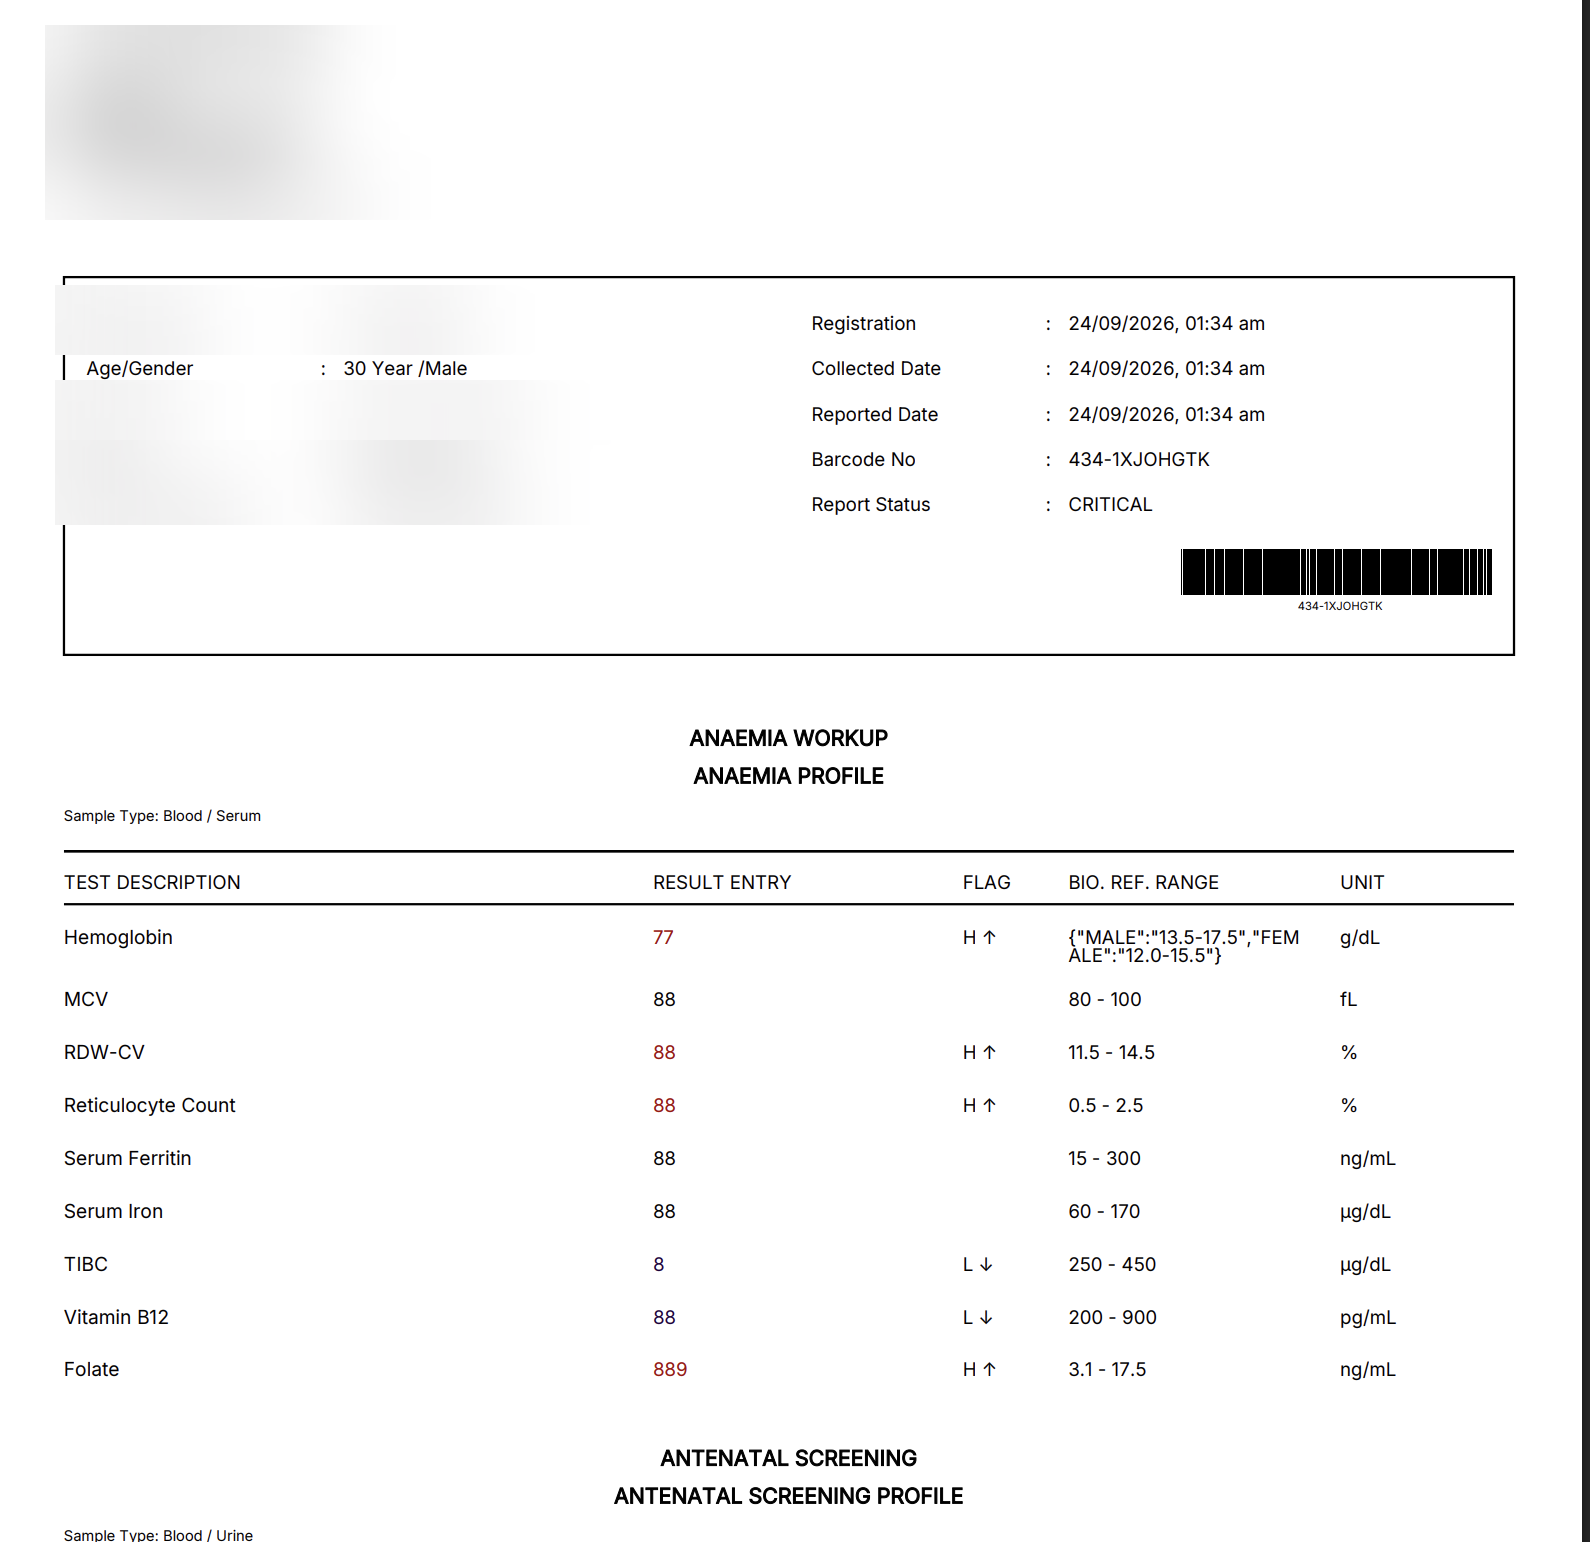
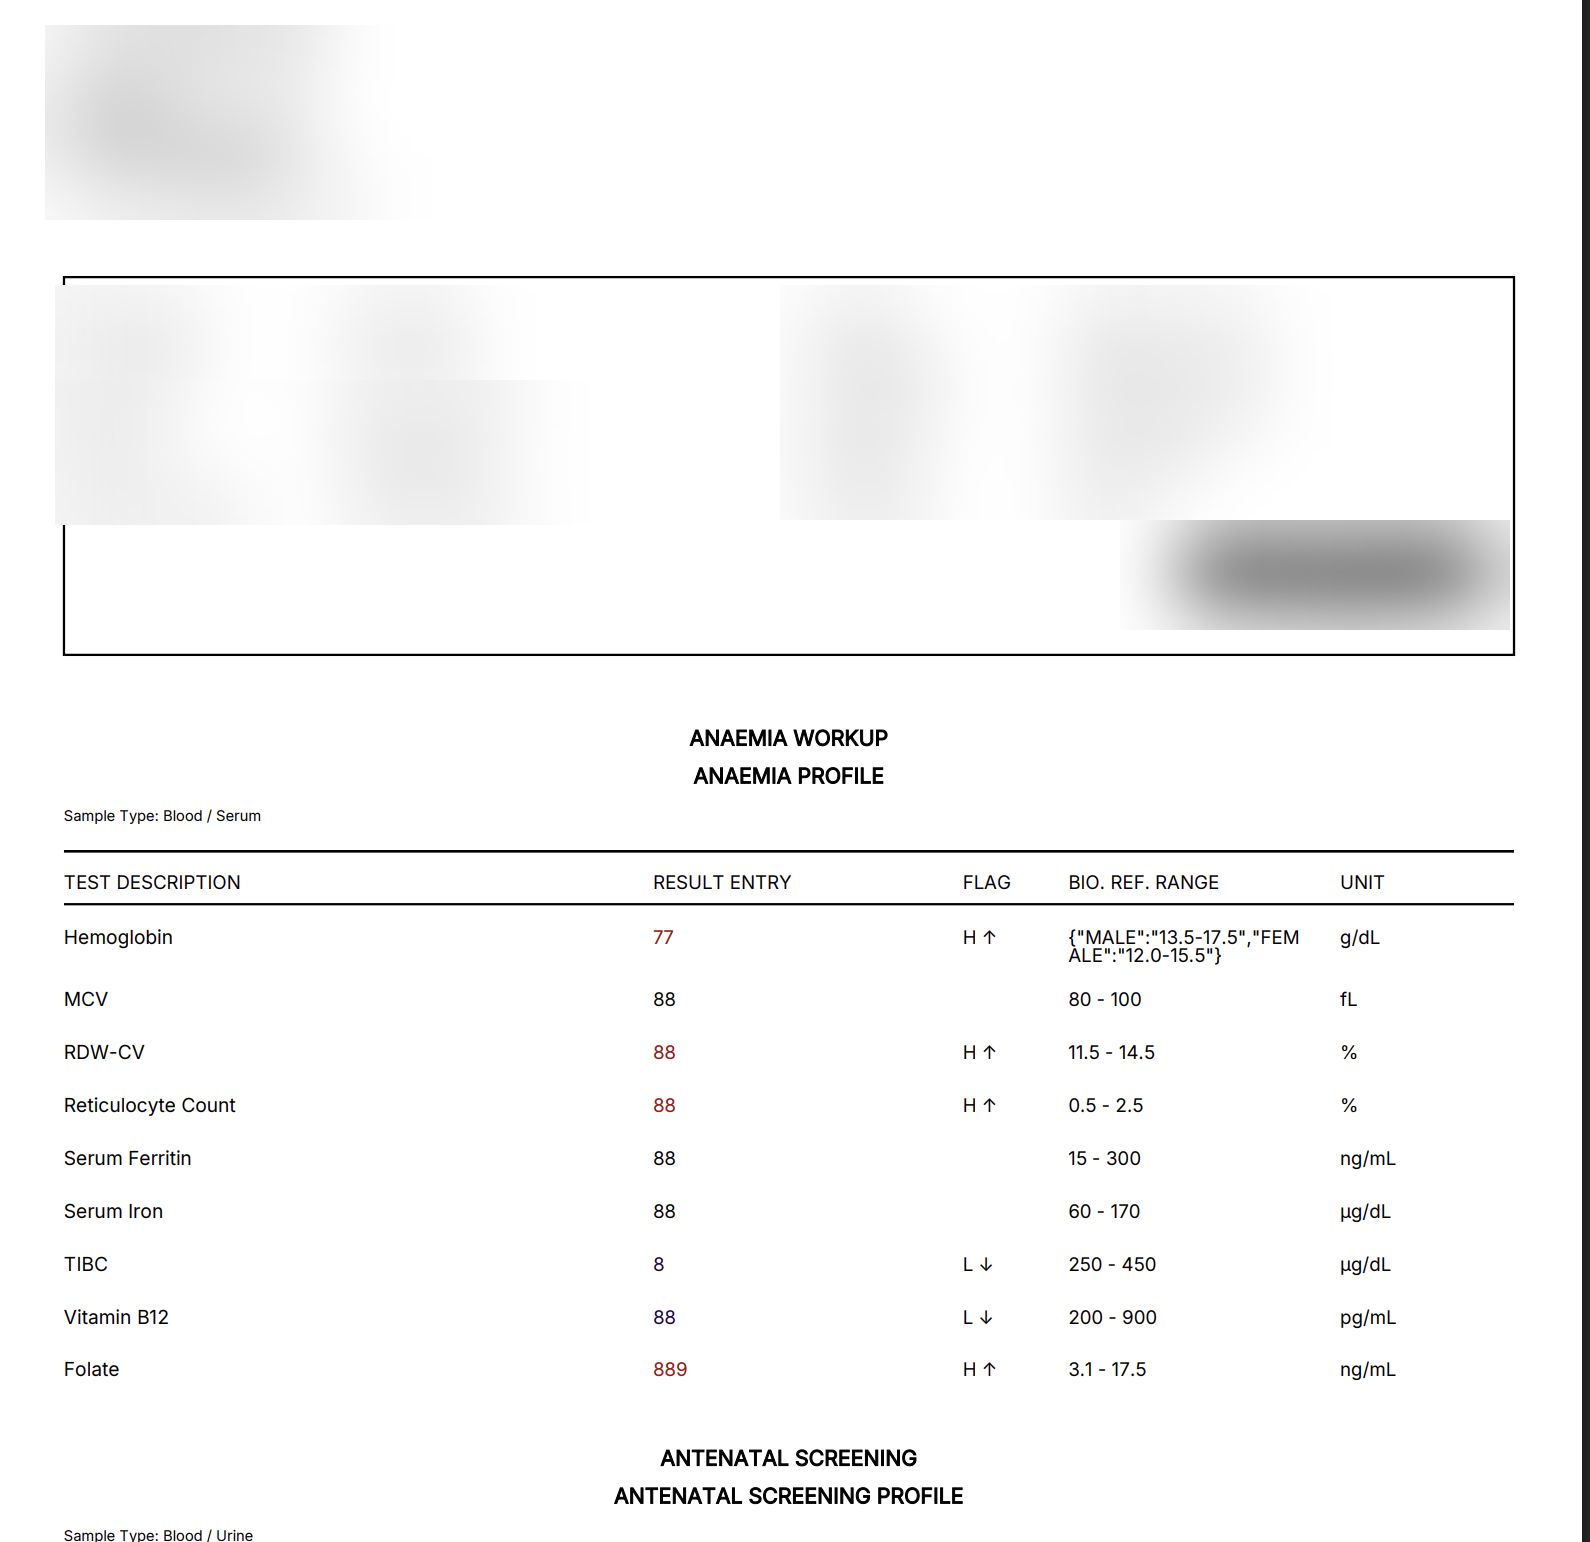
fix: improve lab software SEO and public proof

diff --git a/lab-frontend/src/components/Landing.tsx b/lab-frontend/src/components/Landing.tsx
@@ -23,9 +23,9 @@ export default function Landing({ onLoginClick, onSignupClick }: Props) {
     <div className="landing-page landing-v2">
       <section className="landing-v2-hero">
         <div className="landing-v2-copy">
-          <div className="landing-v2-badge"><span><Sparkles size={14} /> Laboratory reporting software for diagnostic labs</span></div>
-          <h1>Run your laboratory reporting workflow from <span>patient registration to verified report.</span></h1>
-          <p>PathMLT connects patients, orders, tests, samples, results, verification, report templates, and PDF delivery in one workspace for diagnostic, pathology, hospital, and independent laboratories.</p>
+          <div className="landing-v2-badge"><span><Sparkles size={14} /> Lab software for diagnostic laboratories</span></div>
+          <h1>Lab software for diagnostic laboratories, from <span>patient registration to verified report.</span></h1>
+          <p>PathMLT is lab software for diagnostic, pathology, hospital, and independent laboratories. It connects patients, orders, tests, samples, results, verification, report templates, and PDF delivery in one workspace.</p>
           <div className="landing-v2-actions">
             <button className="landing-v2-primary" onClick={onSignupClick}>Start your 30-day free trial <ArrowRight size={17} /></button>
             <a className="landing-v2-secondary" href="https://wa.me/916388334513?text=Hello%20PathMLT%2C%20I%20want%20to%20book%20a%20demo." target="_blank" rel="noreferrer">Book a live demo</a>
@@ -52,6 +52,8 @@ export default function Landing({ onLoginClick, onSignupClick }: Props) {
 
       <section className="landing-v2-trust"><span>BUILT FOR REAL LABORATORY WORK</span><div><strong>Patients</strong><b>→</b><strong>Orders</strong><b>→</b><strong>Samples</strong><b>→</b><strong>Results</strong><b>→</b><strong>Verification</strong><b>→</b><strong>Reports</strong></div></section>
 
+      <section className="landing-v2-section landing-v2-category" aria-labelledby="lab-software-category-title"><div className="landing-v2-section-head"><div><span className="landing-v2-eyebrow">Choosing lab software</span><h2 id="lab-software-category-title">A focused lab software workspace for reporting operations.</h2></div><p>PathMLT is designed for laboratories that need connected patient, test, result, verification, and report workflows—not a generic task tracker or a standalone document editor.</p></div><div className="landing-v2-feature-grid"><article><span className="feature-icon"><FlaskConical size={20} /></span><h3>Lab software for daily operations</h3><p>Keep patient records, orders, samples, configured tests, result entry, and report status connected as work moves through the laboratory.</p><Link to="/diagnostic-lab-software">Explore diagnostic lab software <ArrowRight size={14} /></Link></article><article><span className="feature-icon"><ShieldCheck size={20} /></span><h3>Reporting with a verification checkpoint</h3><p>Review required values, flags, reference information, and report context before a final report is released.</p><Link to="/result-verification">Explore result verification <ArrowRight size={14} /></Link></article><article><span className="feature-icon"><FileCheck2 size={20} /></span><h3>More than a PDF generator</h3><p>Generate the PDF after the underlying patient, order, test, and result data has been configured and reviewed.</p><Link to="/pdf-reports">Explore PDF lab reports <ArrowRight size={14} /></Link></article></div></section>
+
       <div className="landing-v2-action-rail"><span>See how PathMLT fits your laboratory before you commit.</span><div><a className="landing-v2-demo-btn" href="https://wa.me/916388334513?text=Hello%20PathMLT%2C%20I%20want%20to%20book%20a%20demo." target="_blank" rel="noreferrer">Book a workflow demo <ArrowRight size={14} /></a><button className="landing-v2-login-btn" onClick={onLoginClick}>Login</button><button className="landing-v2-register-btn" onClick={onSignupClick}>Start trial</button></div></div>
 
       <section className="landing-v2-section"><div className="landing-v2-section-head"><div><span className="landing-v2-eyebrow">Built around laboratory work</span><h2>Keep every reporting stage in context.</h2></div><p>Replace disconnected spreadsheets, manual handoffs, and scattered report files with a repeatable process that your team can configure, review, and improve.</p></div><div className="landing-v2-feature-grid">{features.map(({ icon: Icon, title, text }) => <article key={title}><span className="feature-icon"><Icon size={20} /></span><h3>{title}</h3><p>{text}</p><Link to="/solutions">Explore this capability <ArrowRight size={14} /></Link></article>)}</div></section>
@@ -64,7 +66,7 @@ export default function Landing({ onLoginClick, onSignupClick }: Props) {
 
       <section className="landing-v2-showcase"><div><span className="landing-v2-eyebrow">Professional laboratory reporting</span><h2>Generate a clear report from verified laboratory results.</h2><p>Use configured tests, readable parameter tables, laboratory identity, and a finalization step to produce patient-ready reports without rebuilding documents manually.</p><Link to="/pdf-reports">Explore PDF lab reports <ArrowRight size={15} /></Link></div><div className="report-mock"><div className="report-mock-head"><div><span>A</span><b>PATHMLT LABORATORY</b></div><em>FINAL REPORT</em></div><div className="report-mock-patient"><span><small>Patient</small><b>Sample patient</b></span><span><small>Report status</small><b>Verified</b></span><span><small>Delivery</small><b>Ready to share</b></span></div><div className="report-mock-table"><div><span>Parameter</span><span>Result</span><span>Reference</span><span>Status</span></div>{[['Hemoglobin','12.8 g/dL','12.0 – 16.0'],['WBC count','7.4 ×10⁹/L','4.0 – 11.0'],['Platelets','248 ×10⁹/L','150 – 450']].map(r=><div key={r[0]}><span>{r[0]}</span><b>{r[1]}</b><span>{r[2]}</span><i><Check size={10}/> Reviewed</i></div>)}</div><div className="report-mock-footer"><span><ShieldCheck size={14}/> Verification complete</span><strong>Ready to deliver</strong></div></div></section>
 
-      <section className="landing-v2-real-report" aria-labelledby="real-report-title"><div className="landing-v2-real-report-copy"><span className="landing-v2-eyebrow">Real product report example</span><h2 id="real-report-title">Show the complete laboratory report, not only a feature list.</h2><p>This anonymized PathMLT report demonstrates a multi-panel workflow with an anemia profile, result values, high and low flags, biological reference ranges, units, and a second antenatal screening section in the same report.</p><Link to="/laboratory-reporting-software">See the reporting workflow <ArrowRight size={15} /></Link></div><figure className="landing-v2-real-report-figure"><img src="/screenshots/anemia-profile-report.png" alt="Anonymized PathMLT multi-panel laboratory report showing anemia profile results, flags, reference ranges, units, and antenatal screening section" loading="lazy" width="1590" height="1542" /><figcaption>Real PathMLT product report supplied by the laboratory; personal and account identifiers have been anonymized.</figcaption></figure></section>
+      <section className="landing-v2-real-report" aria-labelledby="real-report-title"><div className="landing-v2-real-report-copy"><span className="landing-v2-eyebrow">Real product report example</span><h2 id="real-report-title">Show the complete laboratory report, not only a feature list.</h2><p>This anonymized PathMLT report demonstrates a multi-panel workflow with an anemia profile, result values, high and low flags, biological reference ranges, units, and a second antenatal screening section in the same report.</p><Link to="/laboratory-reporting-software">See the reporting workflow <ArrowRight size={15} /></Link></div><figure className="landing-v2-real-report-figure"><img src="/screenshots/anemia-profile-report.png" alt="Anonymized PathMLT multi-panel laboratory report showing anemia profile results, flags, reference ranges, units, and antenatal screening section" loading="lazy" width="1590" height="1542" /><figcaption>Real PathMLT product report supplied by the laboratory; names, contact details, dates, identifiers, and barcode data have been anonymized.</figcaption></figure></section>
 
       <section className="landing-v2-faq" aria-labelledby="home-faq-title"><div className="landing-v2-section-head"><div><span className="landing-v2-eyebrow">Frequently asked questions</span><h2 id="home-faq-title">Questions before you move your laboratory reporting workflow?</h2></div><p>Understand implementation, test configuration, result verification, PDF reporting, access responsibilities, and the PathMLT trial.</p></div><div className="landing-v2-faq-grid">{faqItems.slice(0, 6).map((item) => <details key={item.question}><summary>{item.question}<span>+</span></summary><p>{item.answer}</p></details>)}</div><div className="landing-v2-faq-link"><Link to="/faqs">Read all laboratory software FAQs <ArrowRight size={15} /></Link></div></section>
 

diff --git a/lab-frontend/src/pages/AboutPage.tsx b/lab-frontend/src/pages/AboutPage.tsx
@@ -7,7 +7,7 @@ export default function AboutPage() {
       <section className="about-hero"><div><span className="public-eyebrow"><Activity size={13} /> About PathMLT</span><h1>Laboratory reporting software for teams that need a clearer path from test to report.</h1><p>PathMLT is a laboratory reporting and workflow platform for diagnostic, pathology, hospital, and independent laboratories. It connects patient records, orders, tests, samples, results, verification, report templates, and final report delivery in one workspace.</p></div><div className="about-metric"><strong>One connected workflow</strong><span>Patients → orders → tests → samples → results → verification → reports</span></div></section>
       <section className="about-values">{[{ icon: ShieldCheck, title: 'Review before release', text: 'Structured result entry and verification give teams a clear checkpoint before a report is finalized.' }, { icon: Workflow, title: 'Configuration over repetition', text: 'Tests, parameters, reference information, and report presentation can be configured once and reused across recurring work.' }, { icon: Users2, title: 'Built for laboratory roles', text: 'Reception, technical, review, and administrative responsibilities can work from the same operational context.' }].map(({ icon: Icon, title, text }) => <article key={title}><span className="about-icon"><Icon size={18} /></span><h3>{title}</h3><p>{text}</p></article>)}</section>
       <section className="about-story"><div><span className="landing-eyebrow">The problem PathMLT addresses</span><h2>Important laboratory context should not disappear between handoffs.</h2></div><div className="about-story-copy"><p>Laboratory reporting is a chain of connected decisions. When patient information, test definitions, samples, results, review, and final reports live in separate places, teams spend time checking status and rebuilding context. PathMLT is designed to keep that chain visible and make the next operational action easier to understand.</p><div className="about-checks"><span><CheckCircle2 size={15} /> Patient and order context stays connected</span><span><CheckCircle2 size={15} /> Test and sample definitions are reusable</span><span><CheckCircle2 size={15} /> Results move through a deliberate review step</span><span><CheckCircle2 size={15} /> Final reports use consistent presentation</span><span><CheckCircle2 size={15} /> Workflow history supports accountable operations</span></div></div></section>
-      <section className="about-audience"><div><span className="landing-eyebrow">Who PathMLT is for</span><h2>Choose the workflow closest to your laboratory.</h2><p>Every laboratory has a different mix of departments, panels, roles, and reporting requirements. Start with the operating environment your team recognizes.</p></div><div className="about-audience-links"><Link to="/diagnostic-labs"><strong>Diagnostic laboratories</strong><span>Recurring patient, testing, and report operations.</span><ArrowRight size={14} /></Link><Link to="/pathology-labs"><strong>Pathology laboratories</strong><span>Configured case and reporting workflows.</span><ArrowRight size={14} /></Link><Link to="/hospital-labs"><strong>Hospital laboratories</strong><span>Clear responsibilities across a shared workspace.</span><ArrowRight size={14} /></Link><Link to="/independent-labs"><strong>Independent laboratories</strong><span>Practical workflow control for growing teams.</span><ArrowRight size={14} /></Link></div></section>
+      <section className="about-audience"><div><span className="landing-eyebrow">Who PathMLT is for</span><h2>Choose the workflow closest to your laboratory.</h2><p>Every laboratory has a different mix of departments, panels, roles, and reporting requirements. Start with the operating environment your team recognizes.</p></div><div className="about-audience-links"><Link to="/diagnostic-lab-software"><strong>Diagnostic laboratories</strong><span>Recurring patient, testing, and report operations.</span><ArrowRight size={14} /></Link><Link to="/pathology-labs"><strong>Pathology laboratories</strong><span>Configured case and reporting workflows.</span><ArrowRight size={14} /></Link><Link to="/hospital-labs"><strong>Hospital laboratories</strong><span>Clear responsibilities across a shared workspace.</span><ArrowRight size={14} /></Link><Link to="/independent-labs"><strong>Independent laboratories</strong><span>Practical workflow control for growing teams.</span><ArrowRight size={14} /></Link></div></section>
       <section className="about-story"><div><span className="landing-eyebrow">Explore the product</span><h2>Start with the part of laboratory work you want to improve.</h2></div><div className="about-story-copy"><p>PathMLT can be evaluated by capability or by workflow. Follow the links below to see how each part contributes to a complete laboratory reporting operation.</p><div className="about-checks"><Link to="/patient-management">Patient management <ArrowRight size={14} /></Link><Link to="/test-management">Test catalog management <ArrowRight size={14} /></Link><Link to="/result-entry">Structured result entry <ArrowRight size={14} /></Link><Link to="/result-verification">Result verification <ArrowRight size={14} /></Link><Link to="/pdf-reports">PDF laboratory reports <ArrowRight size={14} /></Link></div></div></section>
       <section className="about-quote"><strong>Make laboratory operations easier to see and easier to review.</strong><span>PathMLT gives your team a shared workflow for moving accurate, configured, and verified information into a professional final report.</span></section>
     </div>

diff --git a/lab-frontend/src/pages/PricingPage.tsx b/lab-frontend/src/pages/PricingPage.tsx
@@ -8,9 +8,9 @@ const plans = [
   { name: 'Custom', price: 'Custom', period: '', description: 'For laboratory groups that need workflow planning, onboarding support, or a conversation about their operating model.', features: ['Everything in Yearly', 'Workflow planning', 'Test and report configuration support', 'Custom onboarding', 'Workflow planning with the PathMLT team', 'Integration planning'], featured: false },
 ];
 
-interface PricingPageProps { isAuthenticated: boolean; onLogin: () => void; onSignup: () => void; }
+interface PricingPageProps { isAuthenticated: boolean; onSignup: () => void; }
 
-export default function PricingPage({ isAuthenticated, onLogin, onSignup }: PricingPageProps) {
+export default function PricingPage({ isAuthenticated, onSignup }: PricingPageProps) {
   const navigate = useNavigate();
   const handlePaymentSuccess = () => { navigate('/dashboard', { replace: true }); window.location.reload(); };
   return (

diff --git a/lab-frontend/src/components/SEO.tsx b/lab-frontend/src/components/SEO.tsx
@@ -19,8 +19,8 @@ function configForPath(pathname: string): SeoConfig {
   const normalizedPath = normalizePathname(pathname);
   return routeMap.get(normalizedPath) ?? {
     path: normalizedPath,
-    title: `${SITE_NAME} | Laboratory Reporting Software`,
-    description: 'PathMLT connects diagnostic laboratory workflows for patients, tests, results, verification and reporting.',
+    title: `Lab Software for Diagnostic Laboratories | ${SITE_NAME}`,
+    description: 'PathMLT connects diagnostic laboratory patients, tests, results, verification and reporting in one lab software workspace.',
     canonical: normalizedPath,
     index: false,
   };

diff --git a/lab-frontend/src/components/Signup.tsx b/lab-frontend/src/components/Signup.tsx
@@ -131,7 +131,7 @@ export default function Signup({ onSignupSuccess, onCancel }: Props) {
     setLoading(true);
 
     try {
-      const res = await authService.verifySignupOtp({
+      await authService.verifySignupOtp({
         requestId,
         otp,
       });
